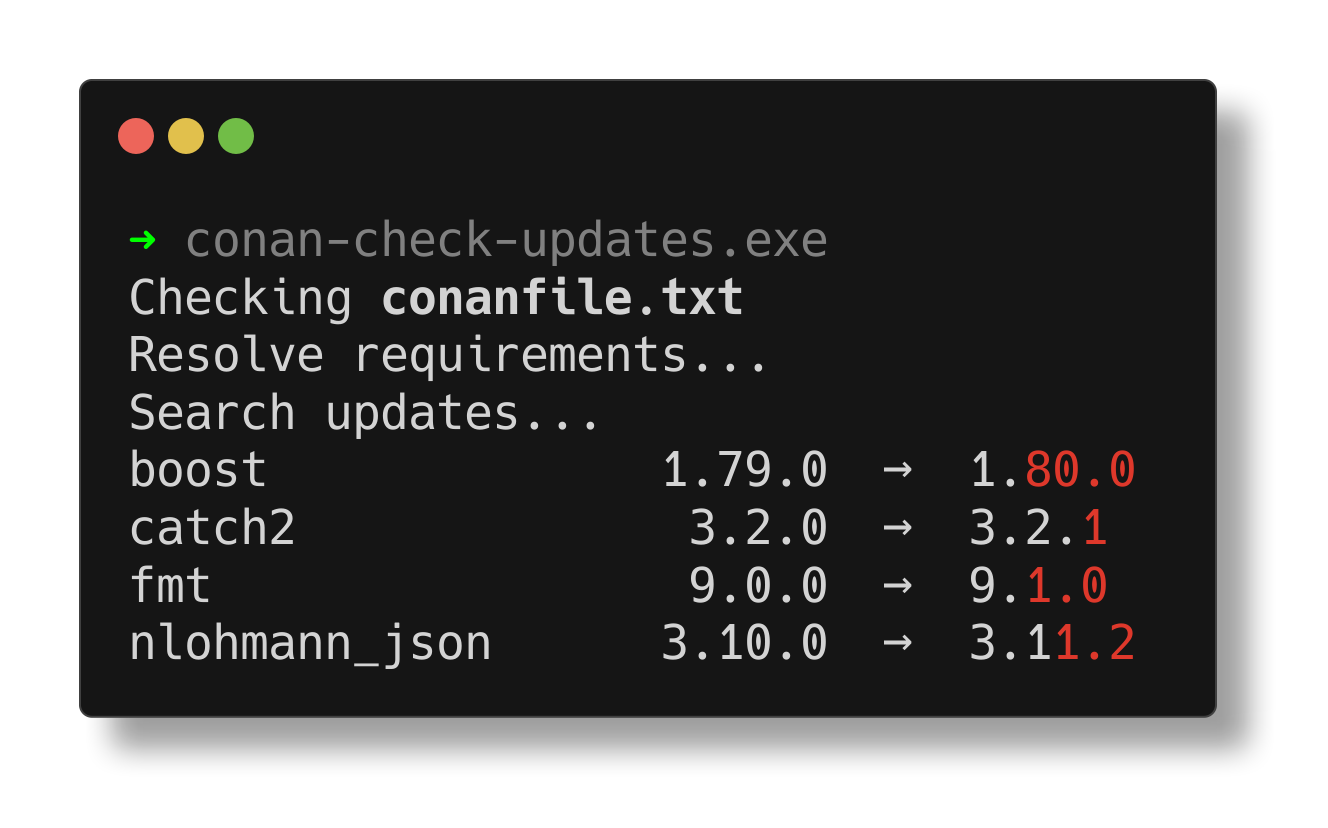
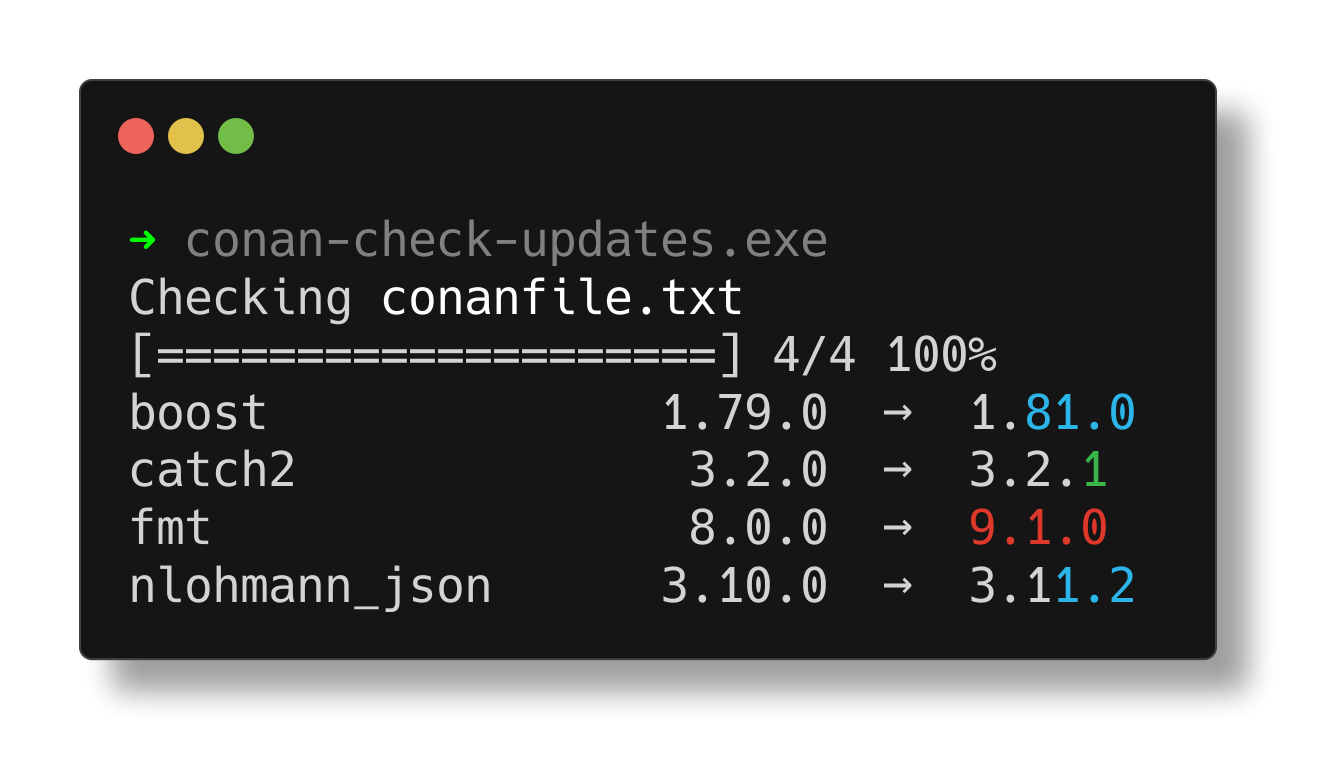
Highlight version differences with different colors

Changed region(s): [[0.0926, 0.249, 0.8645, 0.8093], [0.0617, 0.0934, 0.9262, 0.2179], [0.0617, 0.8405, 0.9262, 0.8716]]

diff --git a/src/conan_check_updates/cli.py b/src/conan_check_updates/cli.py
@@ -143,12 +143,22 @@ class Progressbar:
         self.file.flush()
 
 
-def highlighted_version_difference(
-    version: VersionLike,
-    compare: VersionLike,
-    highlight: AnsiCodes,
-) -> str:
+HIGHLIGHT_COLORS = {
+    VersionPart.MAJOR: AnsiCodes.FG_RED,
+    VersionPart.MINOR: AnsiCodes.FG_CYAN,
+    VersionPart.PATCH: AnsiCodes.FG_GREEN,
+    None: AnsiCodes.FG_DEFAULT,
+}
+
+
+def highlighted_version_difference(version: VersionLike, compare: VersionLike) -> str:
     """Highlight differing parts of version string."""
+    version_difference: Optional[VersionPart] = VersionPart.MAJOR  # default for non-semantic
+    if is_semantic_version(version) and is_semantic_version(compare):
+        version_difference = version.difference(compare)
+
+    color = HIGHLIGHT_COLORS.get(version_difference, AnsiCodes.FG_DEFAULT)
+
     version = str(version)
     compare = str(compare)
     i_first_diff = next(
@@ -157,7 +167,7 @@ def highlighted_version_difference(
     )
     if i_first_diff is None:
         return version
-    return version[:i_first_diff] + colored(version[i_first_diff:], highlight)
+    return version[:i_first_diff] + colored(version[i_first_diff:], color)
 
 
 def main_wrapper(func):
@@ -197,11 +207,7 @@ async def main(argv: Optional[Sequence[str]] = None):
         if not is_semantic_version(result.current_version):
             return ", ".join(map(str, result.versions))  # print list of available versions
         if result.update_version:
-            return highlighted_version_difference(
-                result.update_version,
-                result.current_version,
-                AnsiCodes.FG_RED,
-            )
+            return highlighted_version_difference(result.update_version, result.current_version)
         return str(result.current_version)
 
     for result in results:

diff --git a/src/conan_check_updates/color.py b/src/conan_check_updates/color.py
@@ -48,6 +48,7 @@ class AnsiCodes(IntEnum):
     FG_MAGENTA = 35
     FG_CYAN = 36
     FG_WHITE = 37
+    FG_DEFAULT = 39
     # background
     BG_BLACK = 40
     BG_RED = 41
@@ -57,6 +58,7 @@ class AnsiCodes(IntEnum):
     BG_MAGENTA = 45
     BG_CYAN = 46
     BG_WHITE = 47
+    BG_DEFAULT = 49
 
     def __str__(self) -> str:
         return f"\033[{str(self.value)}m"
